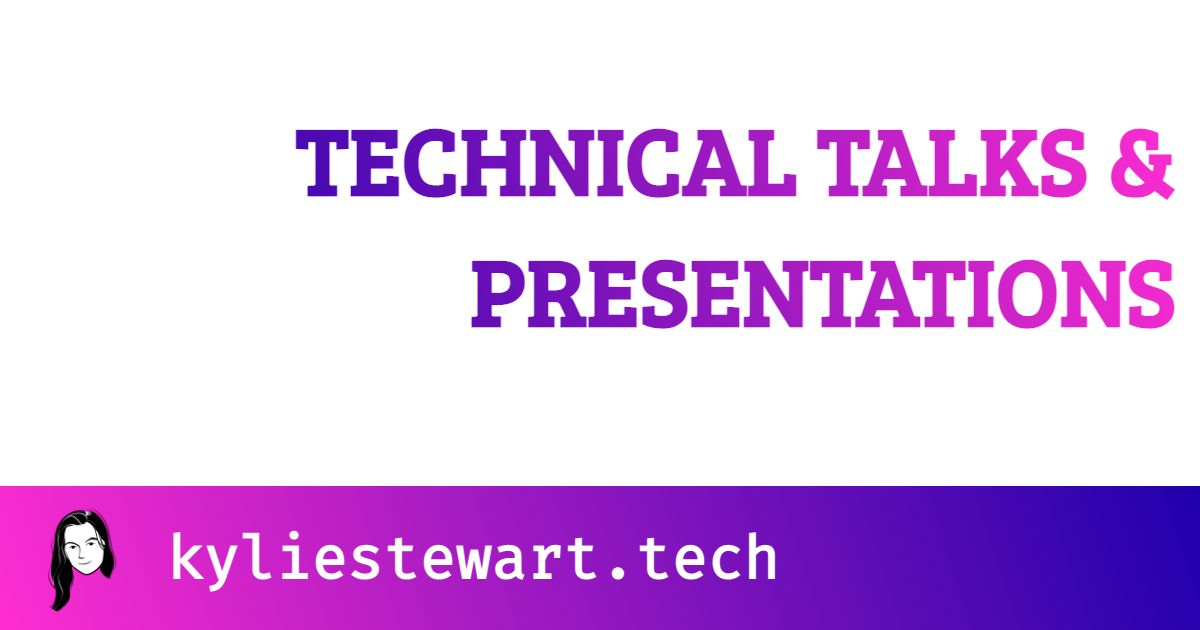
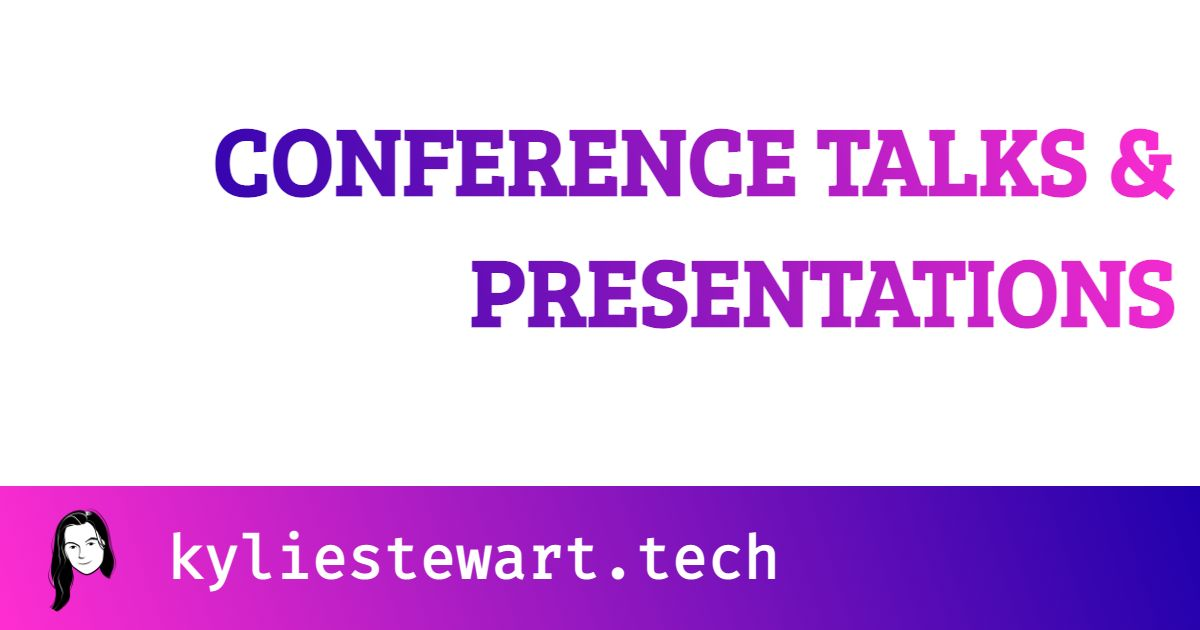
Task: improve mobile styles

Changed region(s): [[0.1542, 0.181, 0.6783, 0.3317]]

diff --git a/pages/about.js b/pages/about.js
@@ -3,7 +3,7 @@ import Headshot from '../public/notion-kylie.png'
 import Image from 'next/image'
 import Layout from '../components/Layout'
 import { METADATA, SocialLinks } from '../utils/constants'
-import { socialImage } from '../utils/preview-cards'
+import { defaultSocialImage } from '../utils/preview-cards'
 
 import utilStyles from '../styles/utils.module.css'
 
@@ -16,9 +16,10 @@ const captionStyles = {
 
 export default function AboutPage() {
   return (
-    <Layout home>
+    <Layout>
       <div className={`${utilStyles.centerText} ${utilStyles.vertical}`}>
-        <Image src={Headshot} height={250} width={250} layout="intrinsic" />
+        <br />
+        <Image src={Headshot} height={200} width={200} layout="intrinsic" />
         <p>
           {METADATA.FIRST_NAME} is a software engineer and technical speaker
           with experience across the web stack. Her expertise lies primarily in
@@ -33,27 +34,28 @@ export default function AboutPage() {
           Ambassador, helping her clients transition from other knowledge
           management tools to an enterprise Notion setup while simultaneously
           building user-friendly integrations using the API for them to leverage
-          internally.
+          internally. She is also currently open to new opportunities. You can
+          download her resume →{' '}
+          <a href="/Kylie Stewart cv.pdf" download>
+            here
+          </a>
+          .
         </p>
         <p>
           In her free time, {METADATA.FIRST_NAME} is an avid hiker and
-          photographer that documents her adventures{' '}
-          <a href={SocialLinks.HikingHomepage}>on a hiking blog</a>, built using
-          Next.js and Notion. She is tracking progress towards her goal of
+          photographer that documents her adventures on{' '}
+          <a href={SocialLinks.HikingHomepage}>a hiking blog</a> (built using
+          Next.js and Notion). She is tracking progress towards her goal of
           summitting every 14,000+' peak in the lower 48 United States there.
         </p>
       </div>
 
-      <br />
-      <h2 className={utilStyles.centerText}>Contact {METADATA.FIRST_NAME}</h2>
+      <h2 className={utilStyles.centerText}>📫 Get in Touch</h2>
       <p style={captionStyles}>
-        To stay up to date with {METADATA.FIRST_NAME}'s work, follow her{' '}
+        To stay up to date with {METADATA.FIRST_NAME}'s projects, follow her{' '}
         <a href={SocialLinks.Twitter}>on Twitter</a>. To discuss working
-        together (you can download her resume{' '}
-        <a href="/Kylie Stewart cv.pdf" download>
-          here
-        </a>
-        ), use the following form:
+        together, send her <a href={SocialLinks.Email}>an email</a> or use the
+        following form:
       </p>
       <ContactForm />
     </Layout>
@@ -68,7 +70,7 @@ export async function getStaticProps() {
     props: {
       title,
       description,
-      ...(await socialImage({
+      ...(await defaultSocialImage({
         title,
         description,
         baseName: 'about',

diff --git a/pages/writing.js b/pages/writing.js
@@ -39,33 +39,31 @@ export default function WritingPage({ allPostsData }) {
 
   return (
     <Layout>
-      <div className={styles.wrapper}>
-        <h1 className={`${utilStyles.centerText} ${utilStyles.headingXl}`}>
-          Technical Writings and Tutorials
-        </h1>
-        <section className={cardStyles.categoryWrapper}>
-          {buildCategories()}
-        </section>
+      <h1 className={`${utilStyles.centerText} ${utilStyles.headingXl}`}>
+        Technical Writings and Tutorials
+      </h1>
+      <section className={cardStyles.categoryWrapper}>
+        {buildCategories()}
+      </section>
 
-        <section className={utilStyles.headingMd}>
-          <ul className={cardStyles.blogCardWrapperUl}>
-            {allPostsData.map((post) => (
-              <li
-                key={post.id}
-                style={{
-                  display:
-                    viewCategory === post.category ||
-                    viewCategory === CATEGORY_TYPE.ALL
-                      ? 'block'
-                      : 'none',
-                }}
-              >
-                <BlogCard post={post} />
-              </li>
-            ))}
-          </ul>
-        </section>
-      </div>
+      <section className={utilStyles.headingMd}>
+        <ul className={cardStyles.blogCardWrapperUl}>
+          {allPostsData.map((post) => (
+            <li
+              key={post.id}
+              style={{
+                display:
+                  viewCategory === post.category ||
+                  viewCategory === CATEGORY_TYPE.ALL
+                    ? 'block'
+                    : 'none',
+              }}
+            >
+              <BlogCard post={post} />
+            </li>
+          ))}
+        </ul>
+      </section>
     </Layout>
   )
 }

diff --git a/components/TalkCard.module.css b/components/TalkCard.module.css
@@ -54,7 +54,7 @@
   width: auto;
   background-color: var(--color-bg-secondary);
   border: 1px var(--color-bg-secondary);
-  padding: 0.5rem 2rem 2rem 2rem;
+  padding: 0.5rem 1rem;
   border-collapse: collapse;
   border-radius: 1rem;
   box-shadow: var(--color-pink-1) -5px 5px, var(--color-pink-2) -10px 10px,
@@ -148,6 +148,6 @@
     flex-direction: column;
     align-items: center;
     margin: auto auto 6vh auto;
-    max-width: 70vw;
+    font-size: 14px;
   }
 }

diff --git a/components/TalkCard.js b/components/TalkCard.js
@@ -41,15 +41,6 @@ const TalkCard = ({ item }) => {
           online on {formatDate(item.eventDate)}.
         </p>
       )}
-      {/* {item.recordedPresentationUrl && (
-        <a
-          href={item.recordedPresentationUrl}
-          alt={`Watch a recording of ${item.title} on Youtube.`}
-          className={styles.youtubeLink}
-        >
-          watch the recording
-        </a>
-      )} */}
     </div>
   )
 

diff --git a/pages/speaking.js b/pages/speaking.js
@@ -55,7 +55,7 @@ export async function getStaticProps() {
   const res = await fetch(SPEAKING_DATA)
   const allTalks = await res.json()
   const allEvents = await getAllSpeakingEvents()
-  const title = 'Technical Talks and Presentations'
+  const title = 'Conference Talks & Presentations'
   const description = `${METADATA.FIRST_NAME} is talking about Javascript, open source, GraphQL, and more.`
 
   return {

diff --git a/utils/constants.js b/utils/constants.js
@@ -20,7 +20,7 @@ export const METADATA = {
 }
 
 export const SocialLinks = {
-  Email: 'mailTo:kylie@kyliestewart.tech',
+  Email: 'mailTo:hello@kyliestewart.tech',
   Github: 'https://github.com/kale-stew',
   Instagram: 'https://instagram.com/kalestews',
   LinkedIn: 'https://www.linkedin.com/in/kylieastewart/',

diff --git a/components/BlogCard.module.css b/components/BlogCard.module.css
@@ -54,7 +54,7 @@
 .blogCard {
   background-color: var(--color-bg-secondary);
   border: 1px var(--color-bg-secondary);
-  padding: 0.5rem 2rem 2rem 2rem;
+  padding: 0.5rem 1rem;
   border-collapse: collapse;
   border-radius: 1rem;
   box-shadow: var(--color-purple-1) -5px 5px, var(--color-purple-2) -10px 10px,

diff --git a/components/ContactForm.js b/components/ContactForm.js
@@ -50,6 +50,8 @@ const SubmitButton = styled.button`
   max-width: 420px;
   border: 1px solid var(--color-bg-tertiary);
   border-radius: 2px;
+  background-color: var(--color-bg-tertiary);
+  color: var(--color-text-primary);
   font-weight: 600;
   font-size: 14px;
   padding: 0.3em 0.6em;

diff --git a/styles/blog.module.css b/styles/blog.module.css
@@ -19,16 +19,3 @@
   font-weight: 800;
   color: var(--color-bg-primary);
 }
-
-.wrapper {
-  min-width: 55vw;
-  max-width: 55vw;
-}
-
-@media (max-width: 1024px) {
-  .wrapper {
-    margin: auto;
-    min-width: 85vw;
-    max-width: 85vw;
-  }
-}

diff --git a/components/Layout.module.css b/components/Layout.module.css
@@ -21,10 +21,3 @@
     margin: 0 auto;
   }
 }
-
-@media (max-width: 710px) {
-  .wrapper {
-    width: 75vw;
-    margin: 0 auto;
-  }
-}
